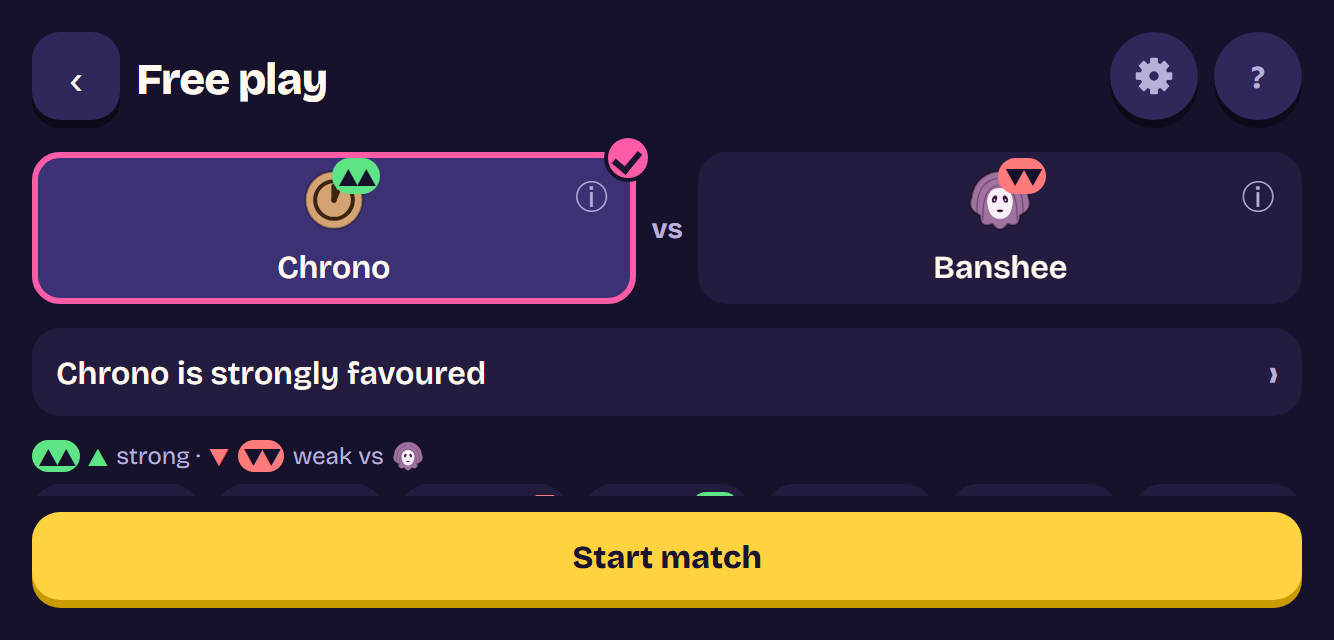
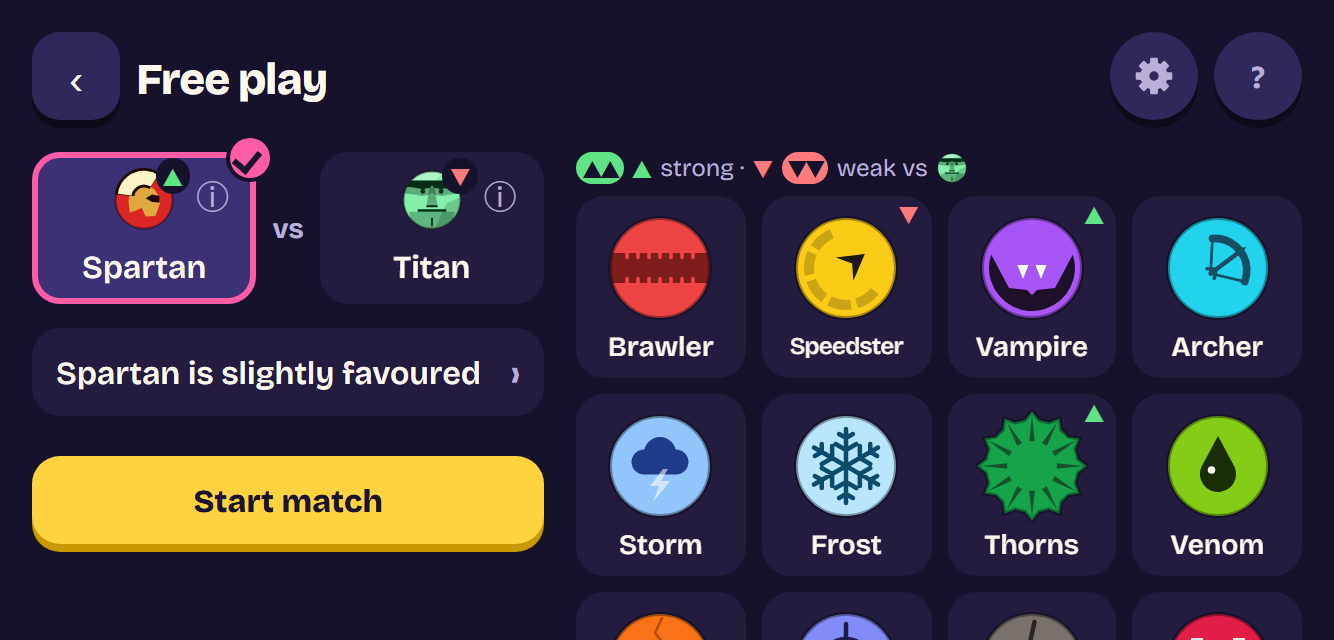
docs: ADR 0067, 0040 and 0036 addenda for the round screen, picker, headings and Boomerang

diff --git a/docs/decisions/0067-beside-layout.md b/docs/decisions/0067-beside-layout.md
@@ -99,8 +99,16 @@ so the size takes them off instead. It runs the two sideways flows above and its
 - **Setup screens and the round screen have no court beside them** (as on a phone and, for setup,
   a desktop, ADR 0020): the page scrolls a column `min(40rem, 100%)` wide, the manual's. With
   nothing fighting, the browser's bar moving resizes nothing, so the page scrolling is safe here;
-  the inner scroll box beside an empty court was what cut tiles. Free play's grid gets six
-  columns and every name keeps one line. A desktop keeps the dimmed round beside its round screen.
+  the inner scroll box beside an empty court was what cut tiles. A desktop keeps the dimmed round
+  beside its round screen.
+- **Every beside screen opens at its top.** The round screen's first action takes focus without
+  scrolling the page beside the court (`BESIDE_LAYOUT`, `src/app/layout-query.ts`, held to the
+  CSS by `layout-queries.test.ts`): scrolling to it sliced the header, its gear and ? and the
+  track off at the top edge. A phone still scrolls to it.
+- **Free play's picker is two columns beside the court**, as on a desktop (the same areas,
+  quick-setup.css): the slots, why and Start match in a 16rem column, the legend and the grid
+  beside it, the page as wide as the screen. At 667 x 320 two whole rows of tiles show at the top,
+  and Start match, sticky in its own column, never covers a tile.
 - **The panel beside a fight is exactly as wide as the room**: `--beside-room` (layout.css), the
   width less the stage's padding, the gap and the court, safe areas included (it was `100vw -
 100dvh - 3rem`, 32 px short at 667 x 320, where the score line wrapped). Home's panel is at most
@@ -109,7 +117,11 @@ so the size takes them off instead. It runs the two sideways flows above and its
   last row, shows whole under speed: the longest (two lines, 77 px) leaves the Free play panel at
   279 of 288 px.
 
-Tests: `small-landscape.landscape-small.browser.test.ts` opens the iPhone's pairing (Archer vs
+Tests: `beside-tops.landscape.browser.test.ts` (both landscape projects) visits home, the picker,
+the vs Bot setup, the lineup, a round and its round screen: at scroll 0 nothing cut off above the
+screen, everything reachable, no sideways scroll; and the picker's first row whole above Start
+match, which covers no tile at the top, middle or end of the page (seen failing without each
+fix: no tile above Start; the round screen scrolled 29 and 216 px). `small-landscape.landscape-small.browser.test.ts` opens the iPhone's pairing (Archer vs
 Necromancer, the longest edge line) at 667 x 320: the card inside the court and no part of it
 wider than its box, the caption and ring together in the ball's colour and the caption whole
 inside the panel, settings inside the screen, and Free play's picker with no inner scroll box, no

diff --git a/docs/decisions/0040-settings.md b/docs/decisions/0040-settings.md
@@ -88,9 +88,10 @@ motion override (the system setting is respected).
 
 Since the two groups (ADR 0079 addendum), "Fights" and "Tips" had the same quiet grey as "Speed"
 and "Sound", while "Ability hints" was white and bold: on a real iPhone the headings read as row
-labels. Now a group heading has the setup screens' section look ("Length", "Format": quiet, small,
-bold) with a hairline (`--color-sunken`) between the groups, and every row's words share the
-switches' look (text colour, 600). No new rows; the compact form still hides the headings.
+labels. Now a group heading is small but in the text's own bright colour at the heaviest weight
+(800, a little letter-spacing), with room above the second group (groups are apart by space, never
+a line, tokens.css), and every row's words share the switches' look (text colour, 500, the body
+size). No new rows; the compact form still hides the headings.
 `small-landscape.landscape-small.browser.test.ts` checks the rows share one look and the
 headings differ from it.
 

diff --git a/docs/decisions/0036-teaching-in-the-arena.md b/docs/decisions/0036-teaching-in-the-arena.md
@@ -183,6 +183,11 @@ times, in a different place from the caption, with nothing tying the two togethe
   last 360 ms (2.4 s in all); the caption fades up 6 px over 320 ms. No pulse, bounce or flash.
   With reduced motion both only fade.
 
+- **A title never repeats its ball's name.** The Boomerang's ability was "Boomerang", so its
+  caption read "Boomerang: Boomerang"; it is "Comes back" (text only). No other ball repeats its
+  own name (`balls.test.ts`); "Sniper: Sniper shot" stays, since "Sniper shot" is the game's word
+  for that shot in the What to watch reasons.
+
 Tests: `small-landscape.landscape-small.browser.test.ts` checks the ring shows with the caption,
 its colour is the title's and not the text colour, and the ball's drawing is beside the title;
 `arena-tips.wide.browser.test.ts` is unchanged.
